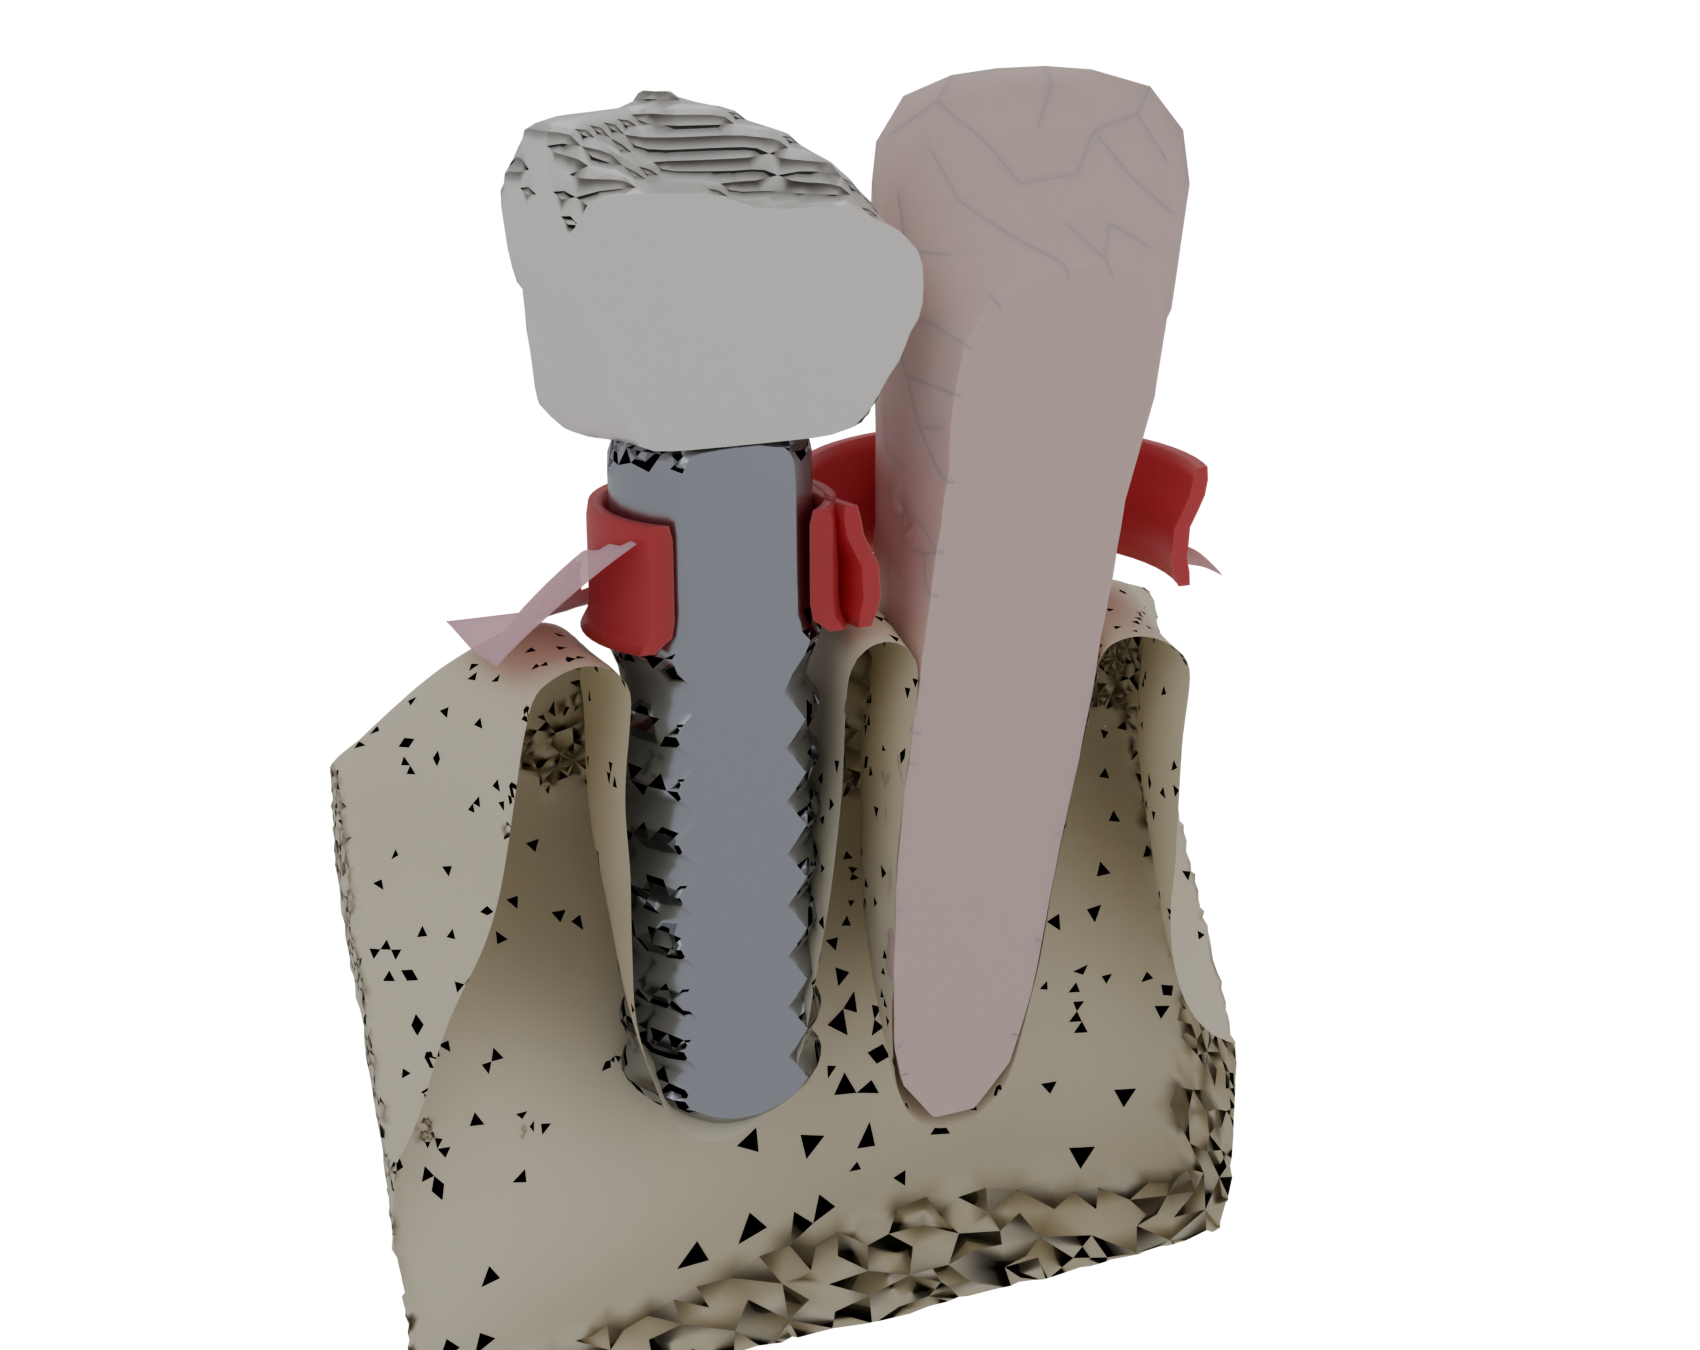
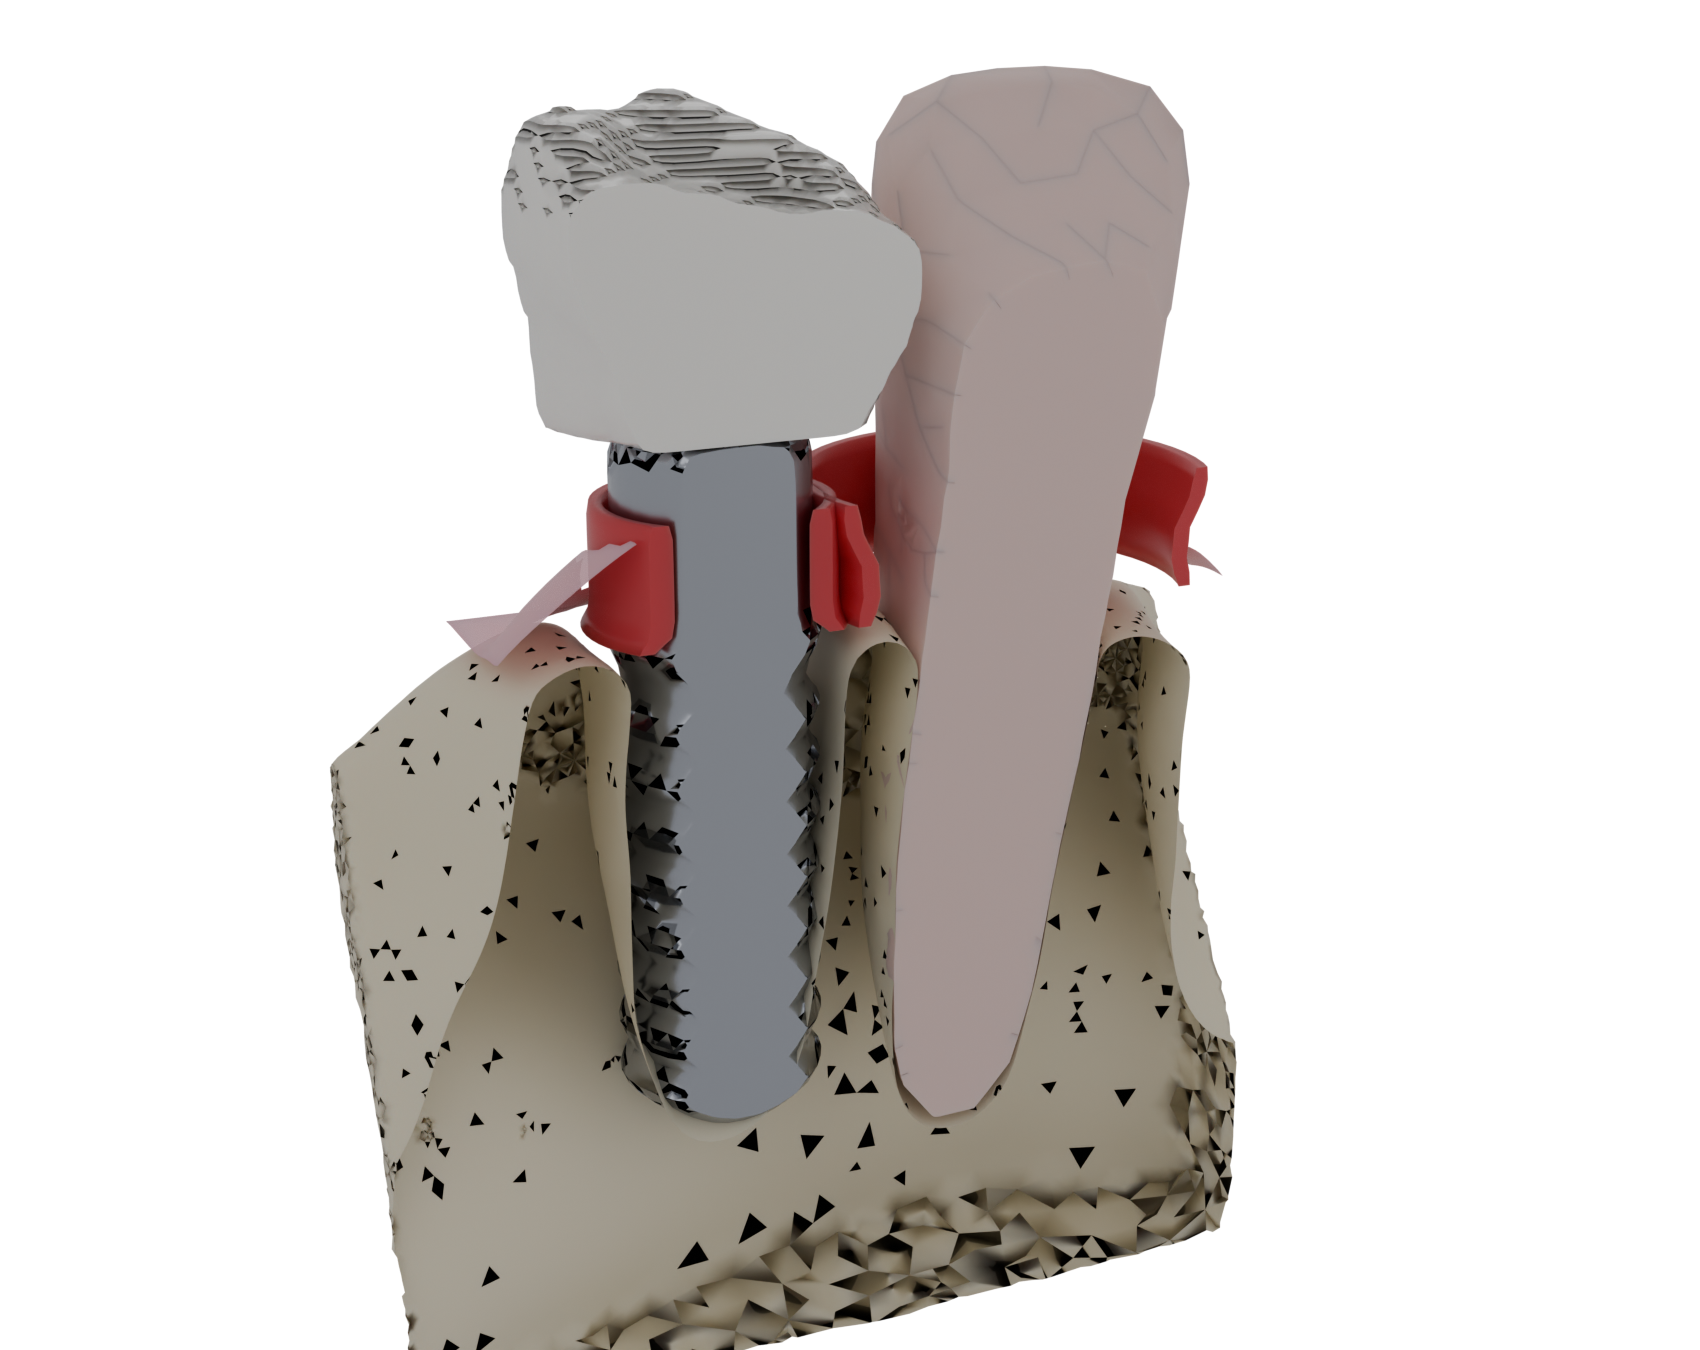
viz: finer voxel crown (0.22mm) smoother + revert fragile shrinkwrap biofilm
The shrinkwrap+solidify biofilm experiment exploded the geometry (whole frame red), so
revert to the simple boolean-cut biofilm. Keep the finer 0.22mm voxel crown (smoother
cusps) and the wet biofilm / natural-ivory tooth materials.

Changed region(s): [[0.2806, 0.0622, 0.53, 0.1556], [0.3118, 0.3111, 0.3429, 0.3422]]

diff --git a/masterarbeit_ansys_fem/extensions/render_implant_blender.py b/masterarbeit_ansys_fem/extensions/render_implant_blender.py
@@ -23,8 +23,8 @@ MAT = {
     "implant": ((0.46, 0.48, 0.52, 1), 1.0, 0.26, 0.0, 0.0, 0.0, 1.0),
     "dentin":  ((0.90, 0.82, 0.64, 1), 0.0, 0.40, 0.30, 0.9, 0.0, 1.0),   # natural ivory tooth, SSS
     "pdl":     ((0.80, 0.62, 0.58, 1), 0.0, 0.62, 0.30, 0.5, 0.0, 1.0),   # pale ligament (not orange)
-    "biofilm": ((0.83, 0.13, 0.14, 1), 0.0, 0.42, 0.35, 0.4, 0.25, 0.93),
-    "crown":   ((0.95, 0.93, 0.88, 1), 0.0, 0.18, 0.12, 0.4, 0.05, 1.0),
+    "biofilm": ((0.82, 0.12, 0.13, 1), 0.0, 0.30, 0.32, 0.4, 0.18, 0.95),    # wet sulcular film
+    "crown":   ((0.95, 0.93, 0.88, 1), 0.0, 0.16, 0.14, 0.4, 0.05, 1.0),
     "gingiva": ((0.93, 0.55, 0.60, 1), 0.0, 0.46, 0.55, 1.2, 0.0, 0.92),
 }
 
@@ -49,7 +49,7 @@ def make_mat(name, spec):
     return m
 
 
-FEM_BODIES = {"bone", "implant", "dentin", "pdl", "biofilm", "crown"}   # closed -> boolean-cut at y_mid
+FEM_BODIES = {"bone", "implant", "dentin", "pdl", "crown", "biofilm"}   # closed -> boolean-cut at y_mid
 
 
 def main():
@@ -66,9 +66,8 @@ def main():
         bpy.ops.wm.ply_import(filepath=str(p))
         ob = bpy.context.selected_objects[0]; ob.name = name
         ob.data.materials.clear(); ob.data.materials.append(make_mat(name, MAT[name]))
-        # smooth the coarse tet facets with vertex-normal smooth shading + a light laplacian relax
-        sm = ob.modifiers.new("smooth", "SMOOTH")
-        sm.iterations = 8 if name == "crown" else (2 if name in ("biofilm", "pdl") else 5)
+        sm = ob.modifiers.new("smooth", "SMOOTH")         # relax coarse tet facets
+        sm.iterations = 8 if name == "crown" else (2 if name in ("pdl", "biofilm") else 5)
         sm.factor = 0.5
         if name in FEM_BODIES:                              # clean flat hemisection cut
             bm = ob.modifiers.new("cut", "BOOLEAN"); bm.operation = "INTERSECT"
